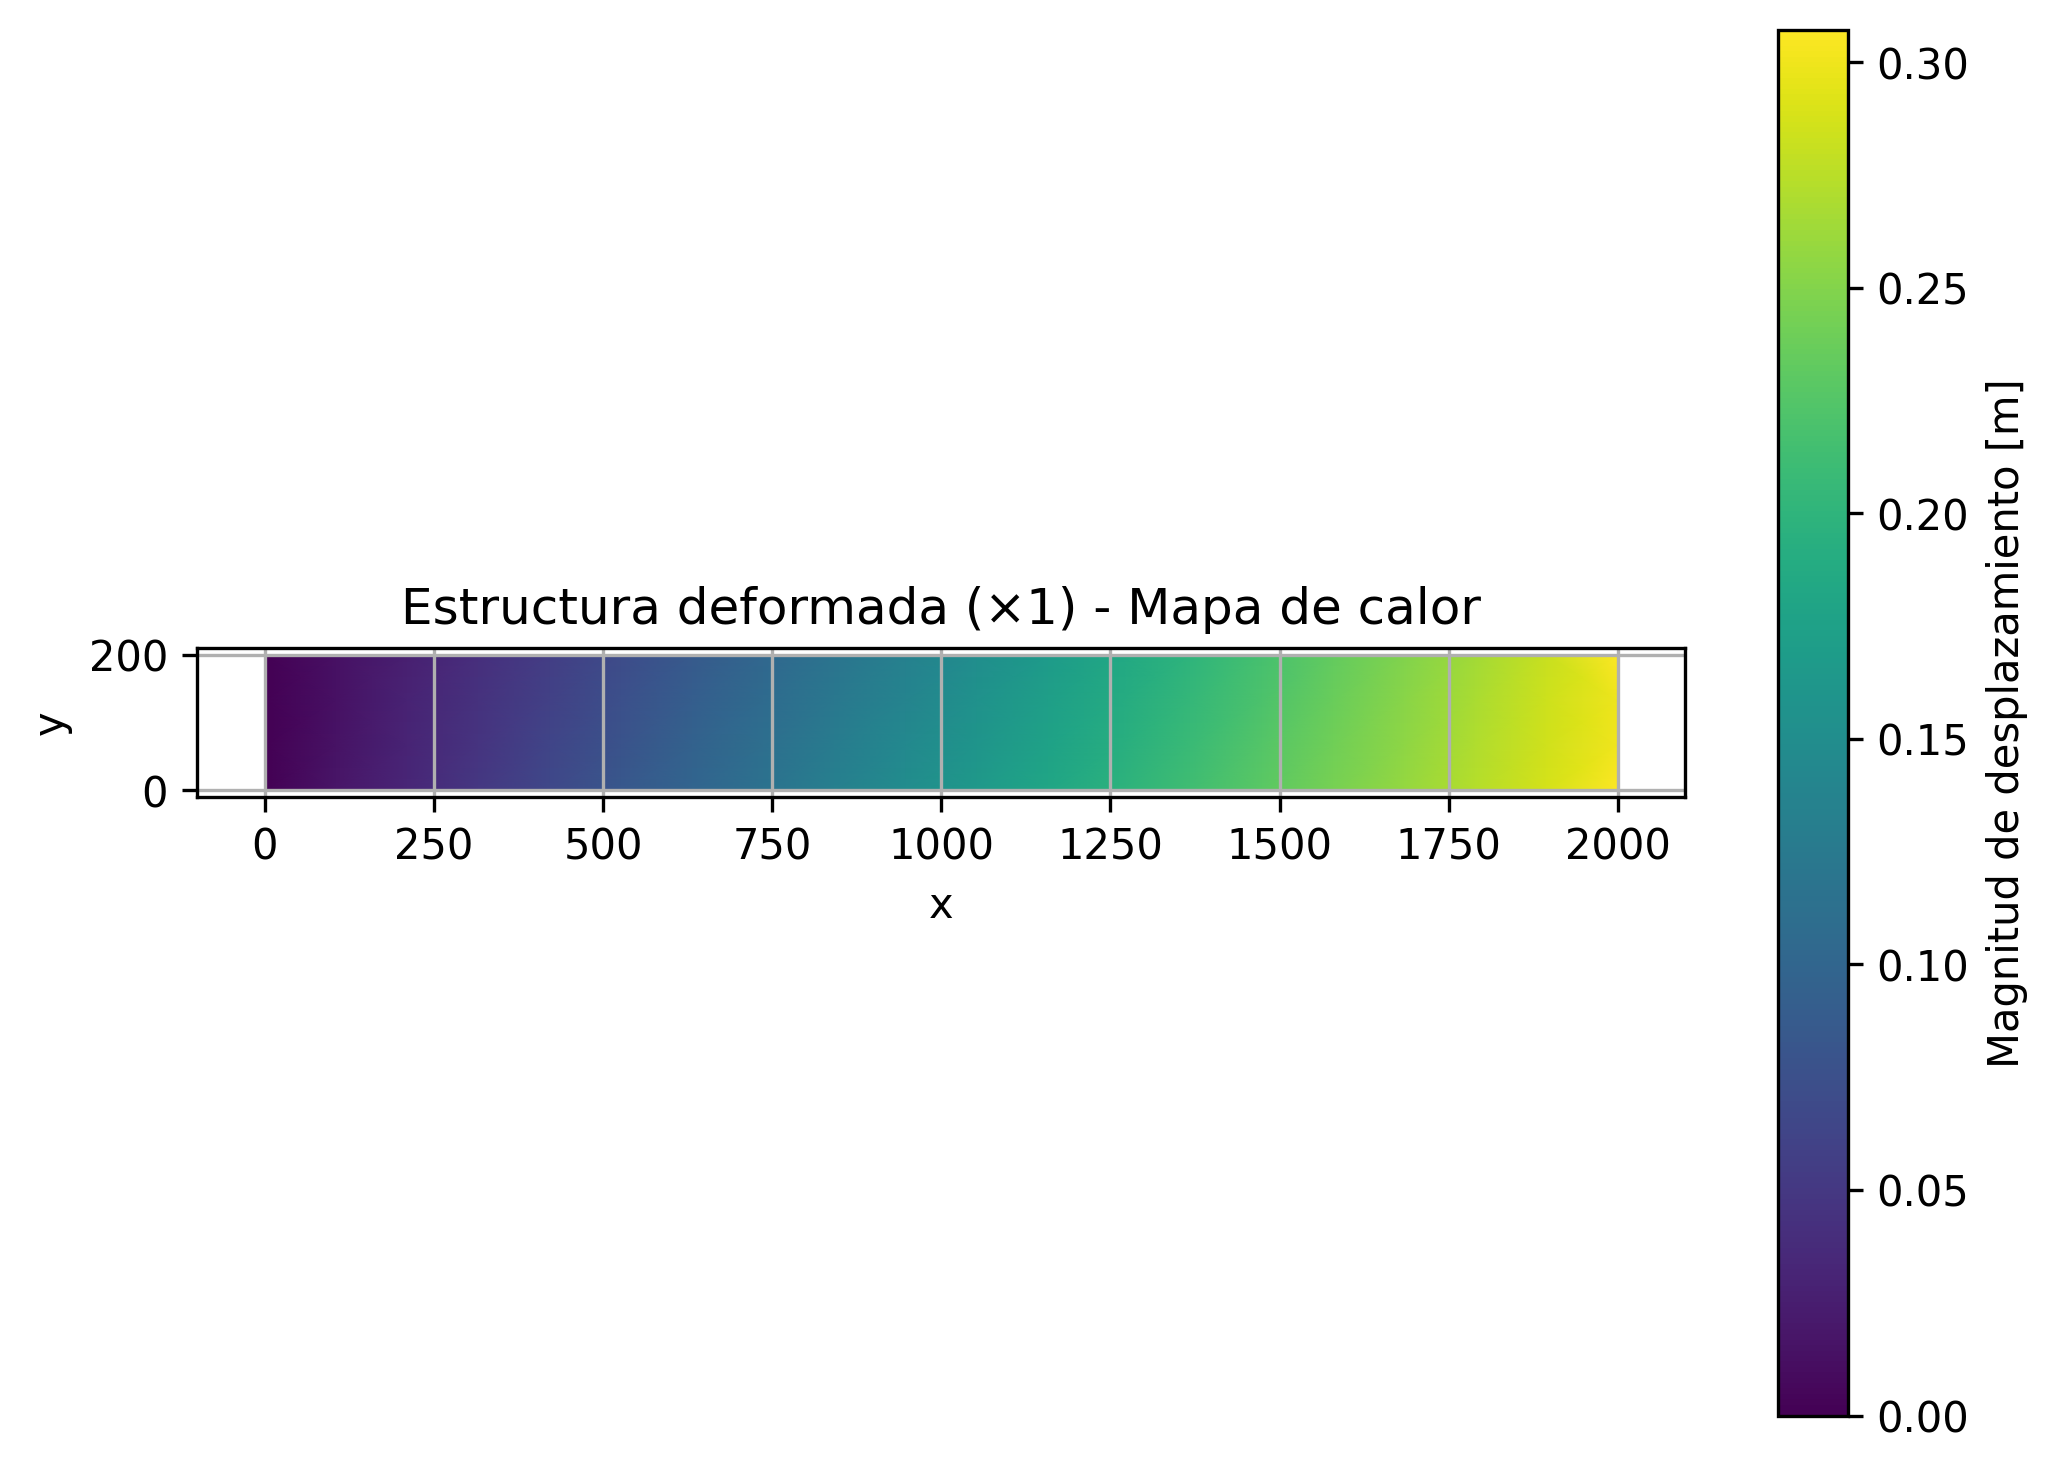
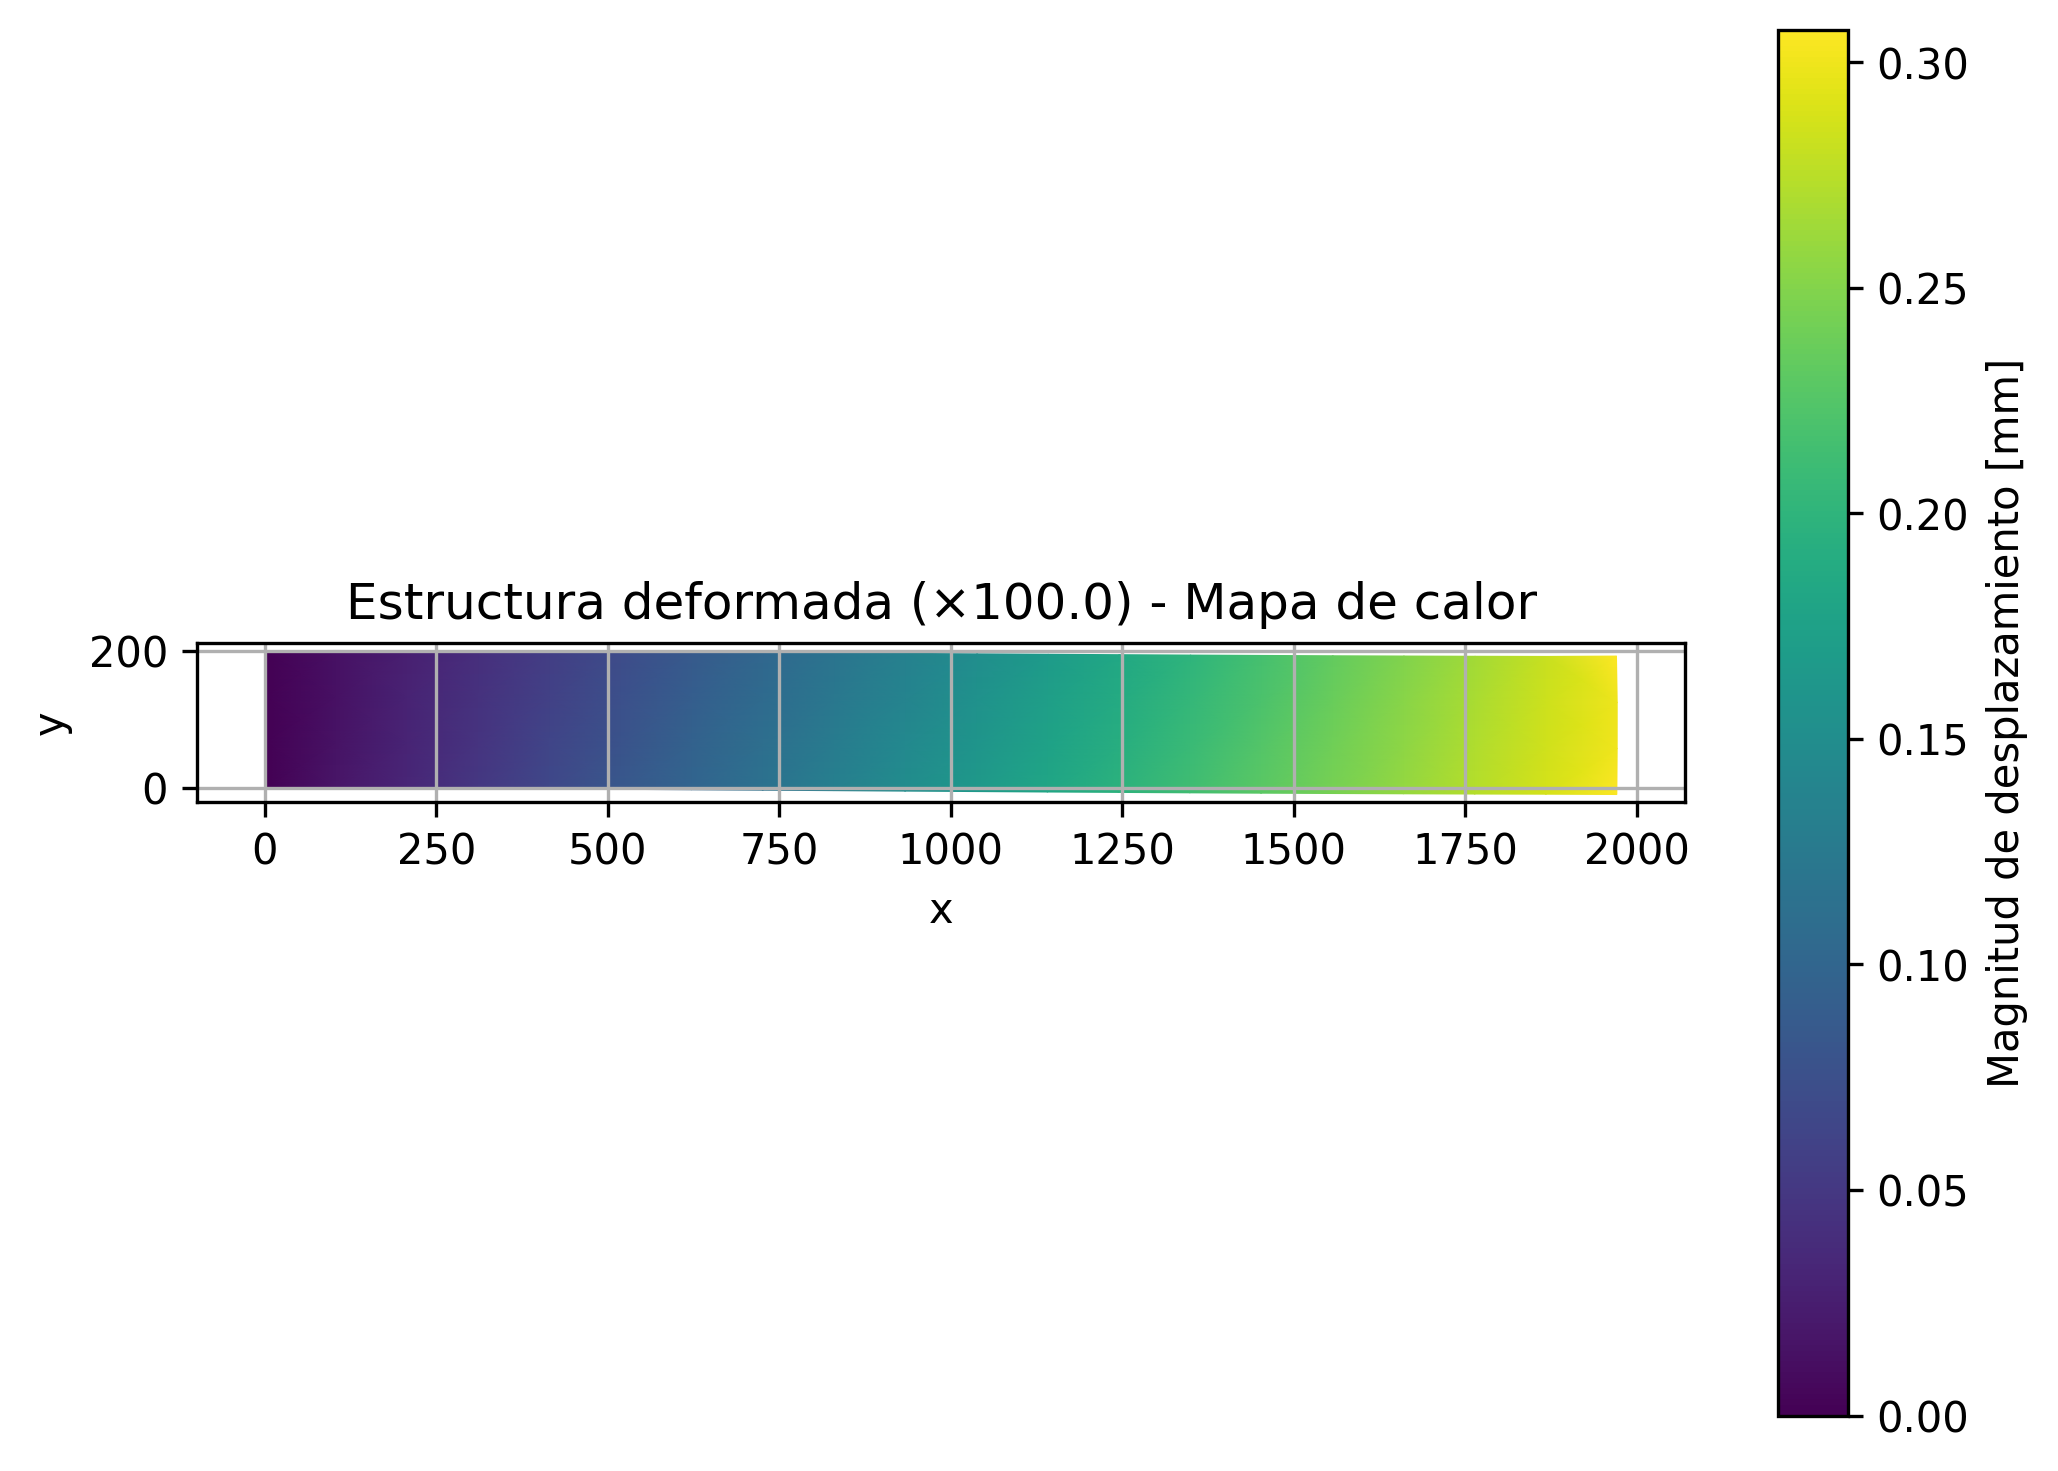
avance en codigo de funciones de forma

Changed region(s): [[0.0622, 0.5201, 0.8397, 0.6424], [0.0311, 0.3977, 0.8397, 0.4589], [0.964, 0.2447, 0.9951, 0.7342]]

diff --git a/VALIDACION_FEM/Form_Funct.py b/VALIDACION_FEM/Form_Funct.py
@@ -1,0 +1,74 @@
+import numpy as np
+
+# Funciones de forma para un elemento cuadrilátero de 9 nodos (Quad9)
+def N1(xi, eta):
+    return 0.25 * xi * eta * (xi - 1) * (eta - 1)
+
+def N2(xi, eta):
+    return 0.25 * xi * eta * (xi + 1) * (eta - 1)
+
+def N3(xi, eta):
+    return 0.25 * xi * eta * (xi + 1) * (eta + 1)
+
+def N4(xi, eta):
+    return 0.25 * xi * eta * (xi - 1) * (eta + 1)
+
+def N5(xi, eta):
+    return 0.5 * (1 - xi ** 2) * eta * (eta - 1)
+
+def N6(xi, eta):
+    return 0.5 * xi * (xi + 1) * (1 - eta ** 2)
+
+def N7(xi, eta):
+    return 0.5 * (1 - xi ** 2) * eta * (eta + 1)
+
+def N8(xi, eta):
+    return 0.5 * xi * (xi - 1) * (1 - eta ** 2)
+
+def N9(xi, eta):
+    return (1 - xi ** 2) * (1 - eta ** 2)
+
+# Coordenadas de los nodos en el plano (xi, eta)
+node_coords = {
+    1: (-1, -1),
+    2: ( 1, -1),
+    3: ( 1,  1),
+    4: (-1,  1),
+    5: ( 0, -1),
+    6: ( 1,  0),
+    7: ( 0,  1),
+    8: (-1,  0),
+    9: ( 0,  0)
+}
+
+# Función para validar las funciones de forma para un nodo específico
+def validate_shape_function(N_funcs, node_index):
+    xi, eta = node_coords[node_index + 1]  # Obtener las coordenadas del nodo
+    
+    # Validar la función de forma del nodo específico
+    value = N_funcs[node_index](xi, eta)
+    print(f"En el nodo {node_index + 1}: N{node_index + 1} = {value}")
+    
+    # Validar que la función de forma en su nodo correspondiente sea 1
+    if node_index + 1 == node_index + 1:
+        assert np.isclose(value, 1), f"Error: N{node_index + 1} en nodo {node_index + 1} no es 1."
+    else:
+        # Validar que la función de forma en los otros nodos sea 0
+        assert np.isclose(value, 0), f"Error: N{node_index + 1} en nodo {node_index + 1} no es 0."
+
+    # Validar que las demás funciones sean 0 en el nodo actual
+    for i in range(9):
+        if i != node_index:  # Si no es el mismo nodo
+            value_other = N_funcs[i](xi, eta)
+            print(f"En el nodo {node_index + 1}: N{i + 1} = {value_other}")
+            assert np.isclose(value_other, 0), f"Error: N{i + 1} en nodo {node_index + 1} no es 0."
+
+# Función para validar todas las funciones de forma para cada nodo
+def validate_all_shape_functions():
+    N_funcs = [N1, N2, N3, N4, N5, N6, N7, N8, N9]
+    for node_index in range(9):
+        print(f"\n--- Validando la función de forma para el nodo {node_index + 1} ---")
+        validate_shape_function(N_funcs, node_index)
+
+# Llamar a la función para validar las funciones de forma para todos los nodos
+validate_all_shape_functions()

diff --git a/QUAD9/main.py b/QUAD9/main.py
@@ -207,7 +207,7 @@ def main(title, mesh_file, self_weight=True):
     if self_weight:
         
         # Aplicar peso propio a los elementos
-        Peso = apply_self_weight(elements, rho, estructure)
+        apply_self_weight(elements, rho, estructure)
 
     nodos_fuerza = grupos["Fuerza"]
     apply_distributed_force(nodos_fuerza, fuerza_total_x=-1200000, estructura=estructure)
@@ -221,7 +221,7 @@ def main(title, mesh_file, self_weight=True):
         estructure,
         elements,
         title=title,
-        def_scale=1,
+        def_scale=1e2,
         force_scale=1e-4,
         reaction_scale=1e-2,
         sigma_y_tension=250, 

diff --git a/QUAD9/graph.py b/QUAD9/graph.py
@@ -201,7 +201,7 @@ def plot_deformed_structure(elements, title, scale=1.0, show_ids=False):
 
     tpc = ax.tripcolor(triang, displacements, shading='gouraud', cmap='viridis')
     cb = plt.colorbar(tpc, ax=ax)
-    cb.set_label('Magnitud de desplazamiento [m]')
+    cb.set_label('Magnitud de desplazamiento [mm]')
 
     ax.set_aspect('equal')
     ax.set_title(f"Estructura deformada (×{scale}) - Mapa de calor")
